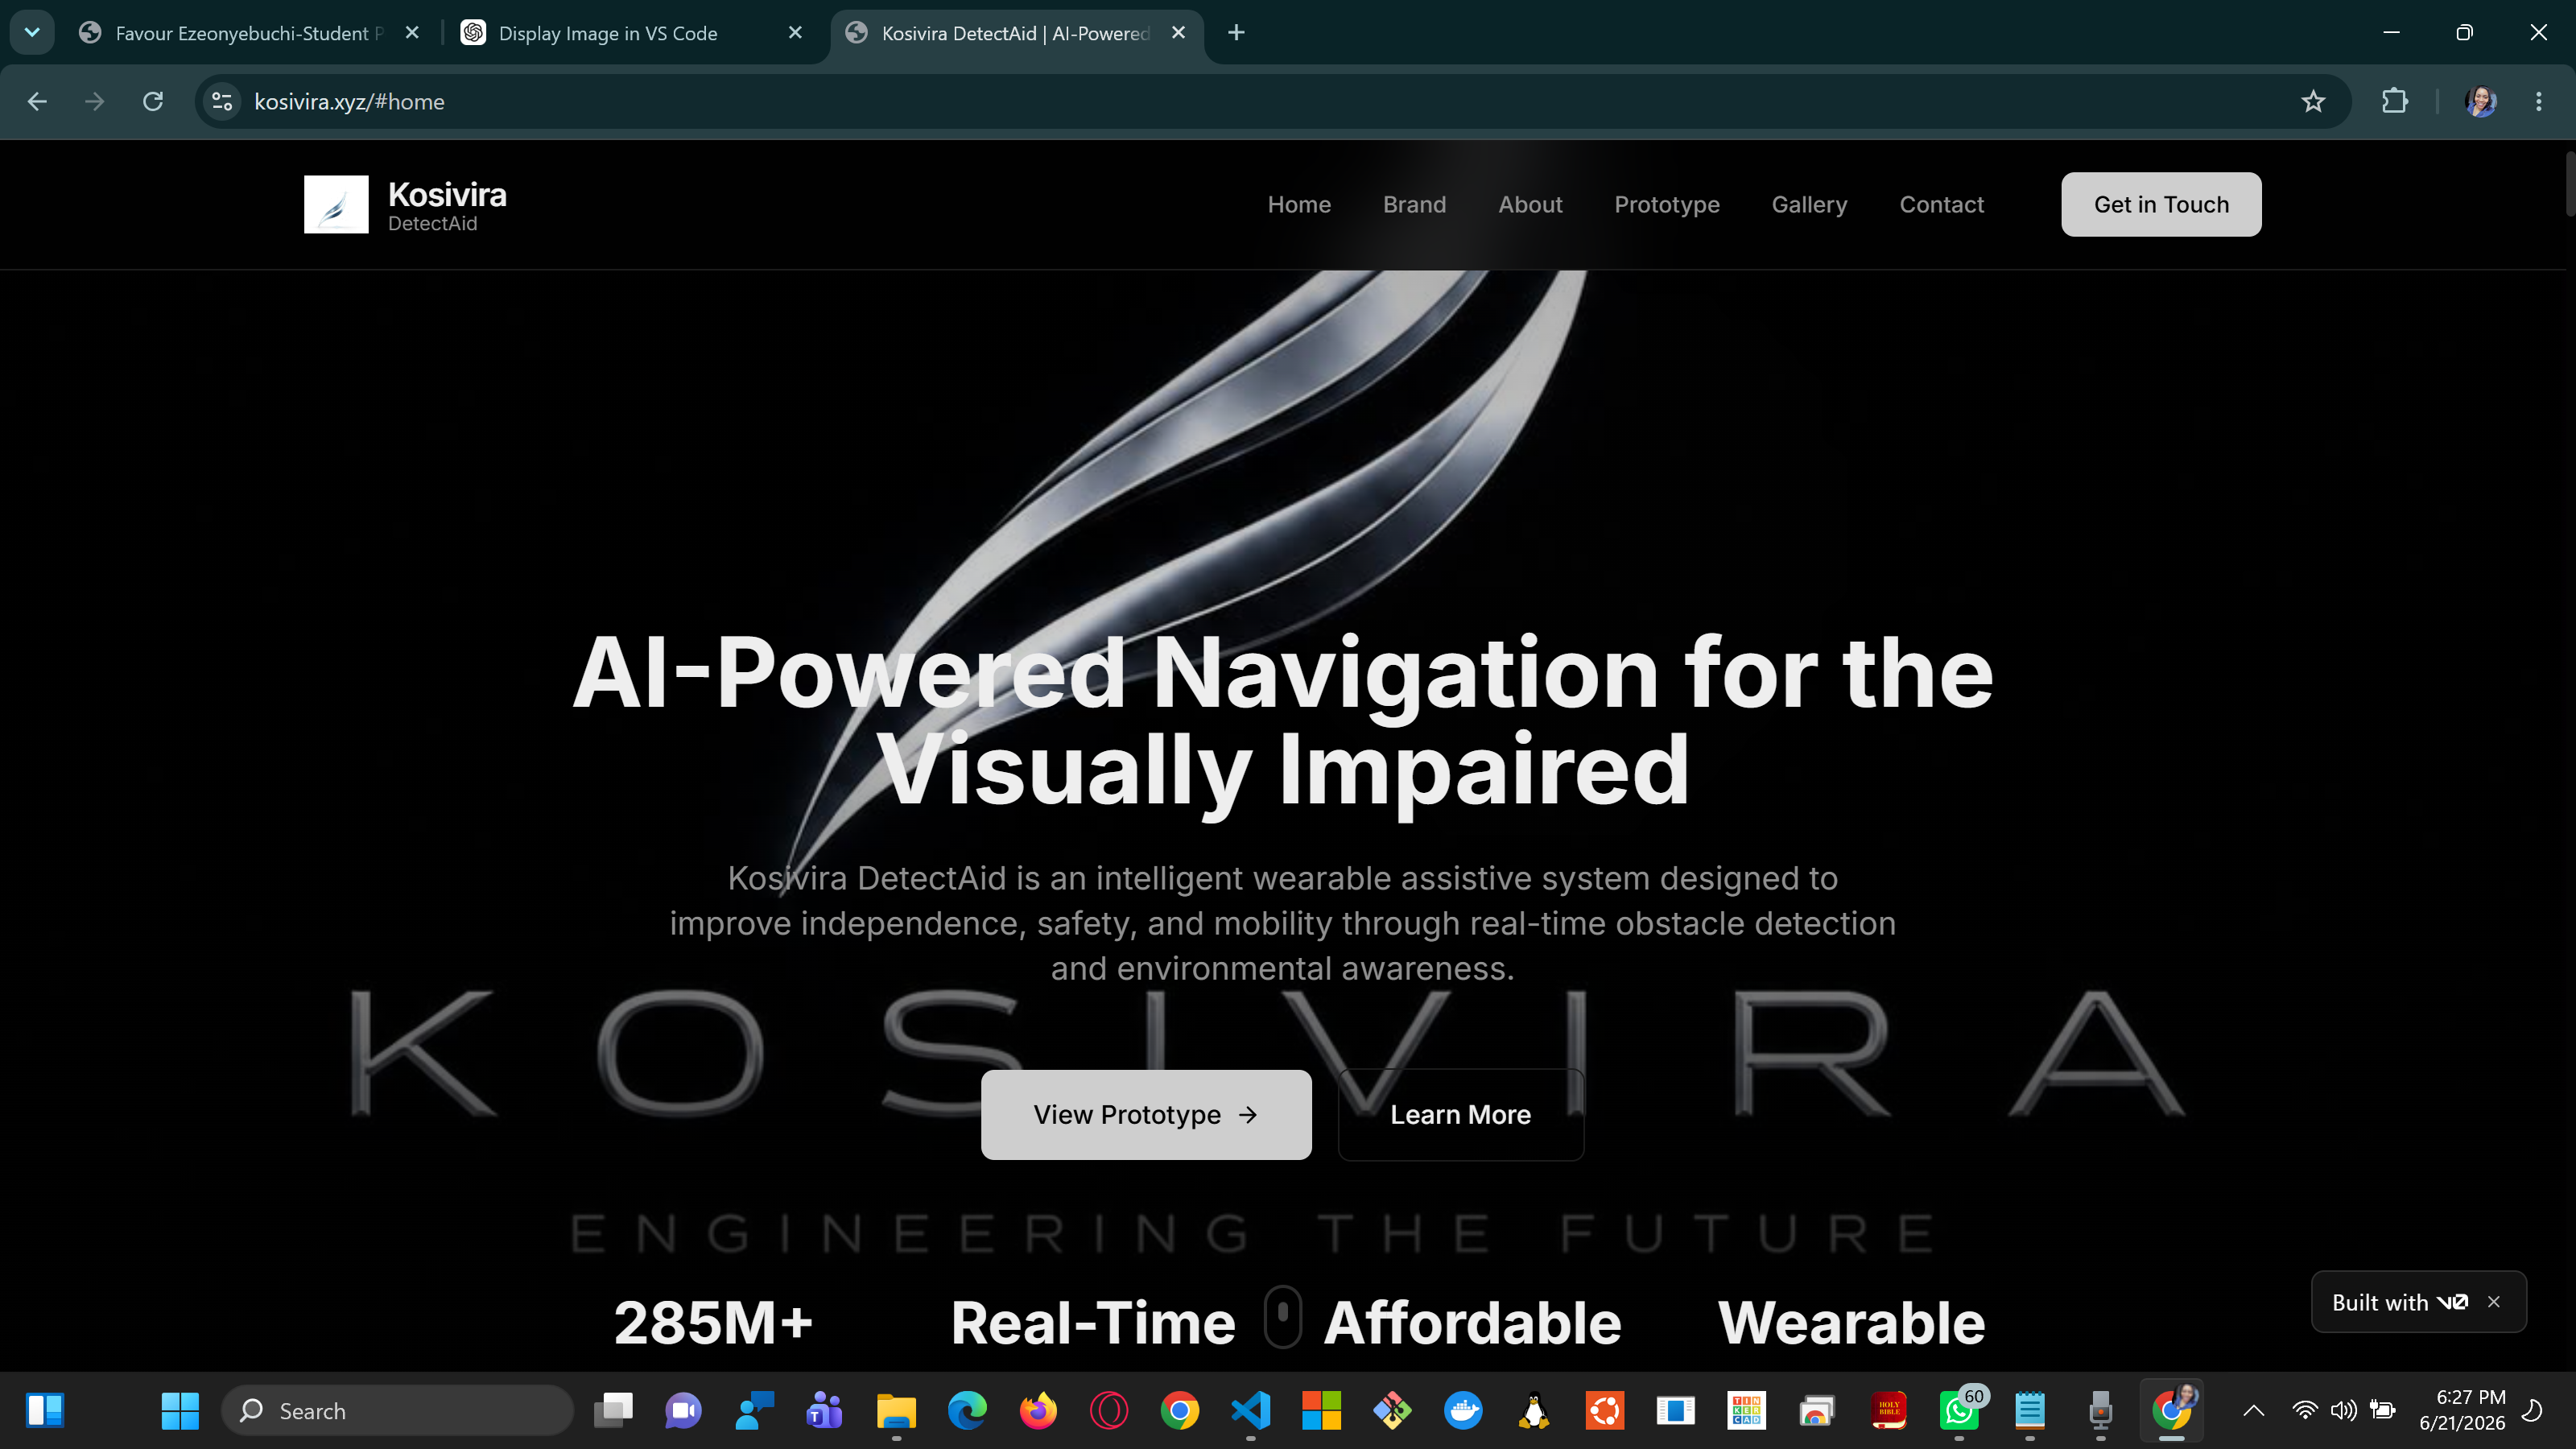
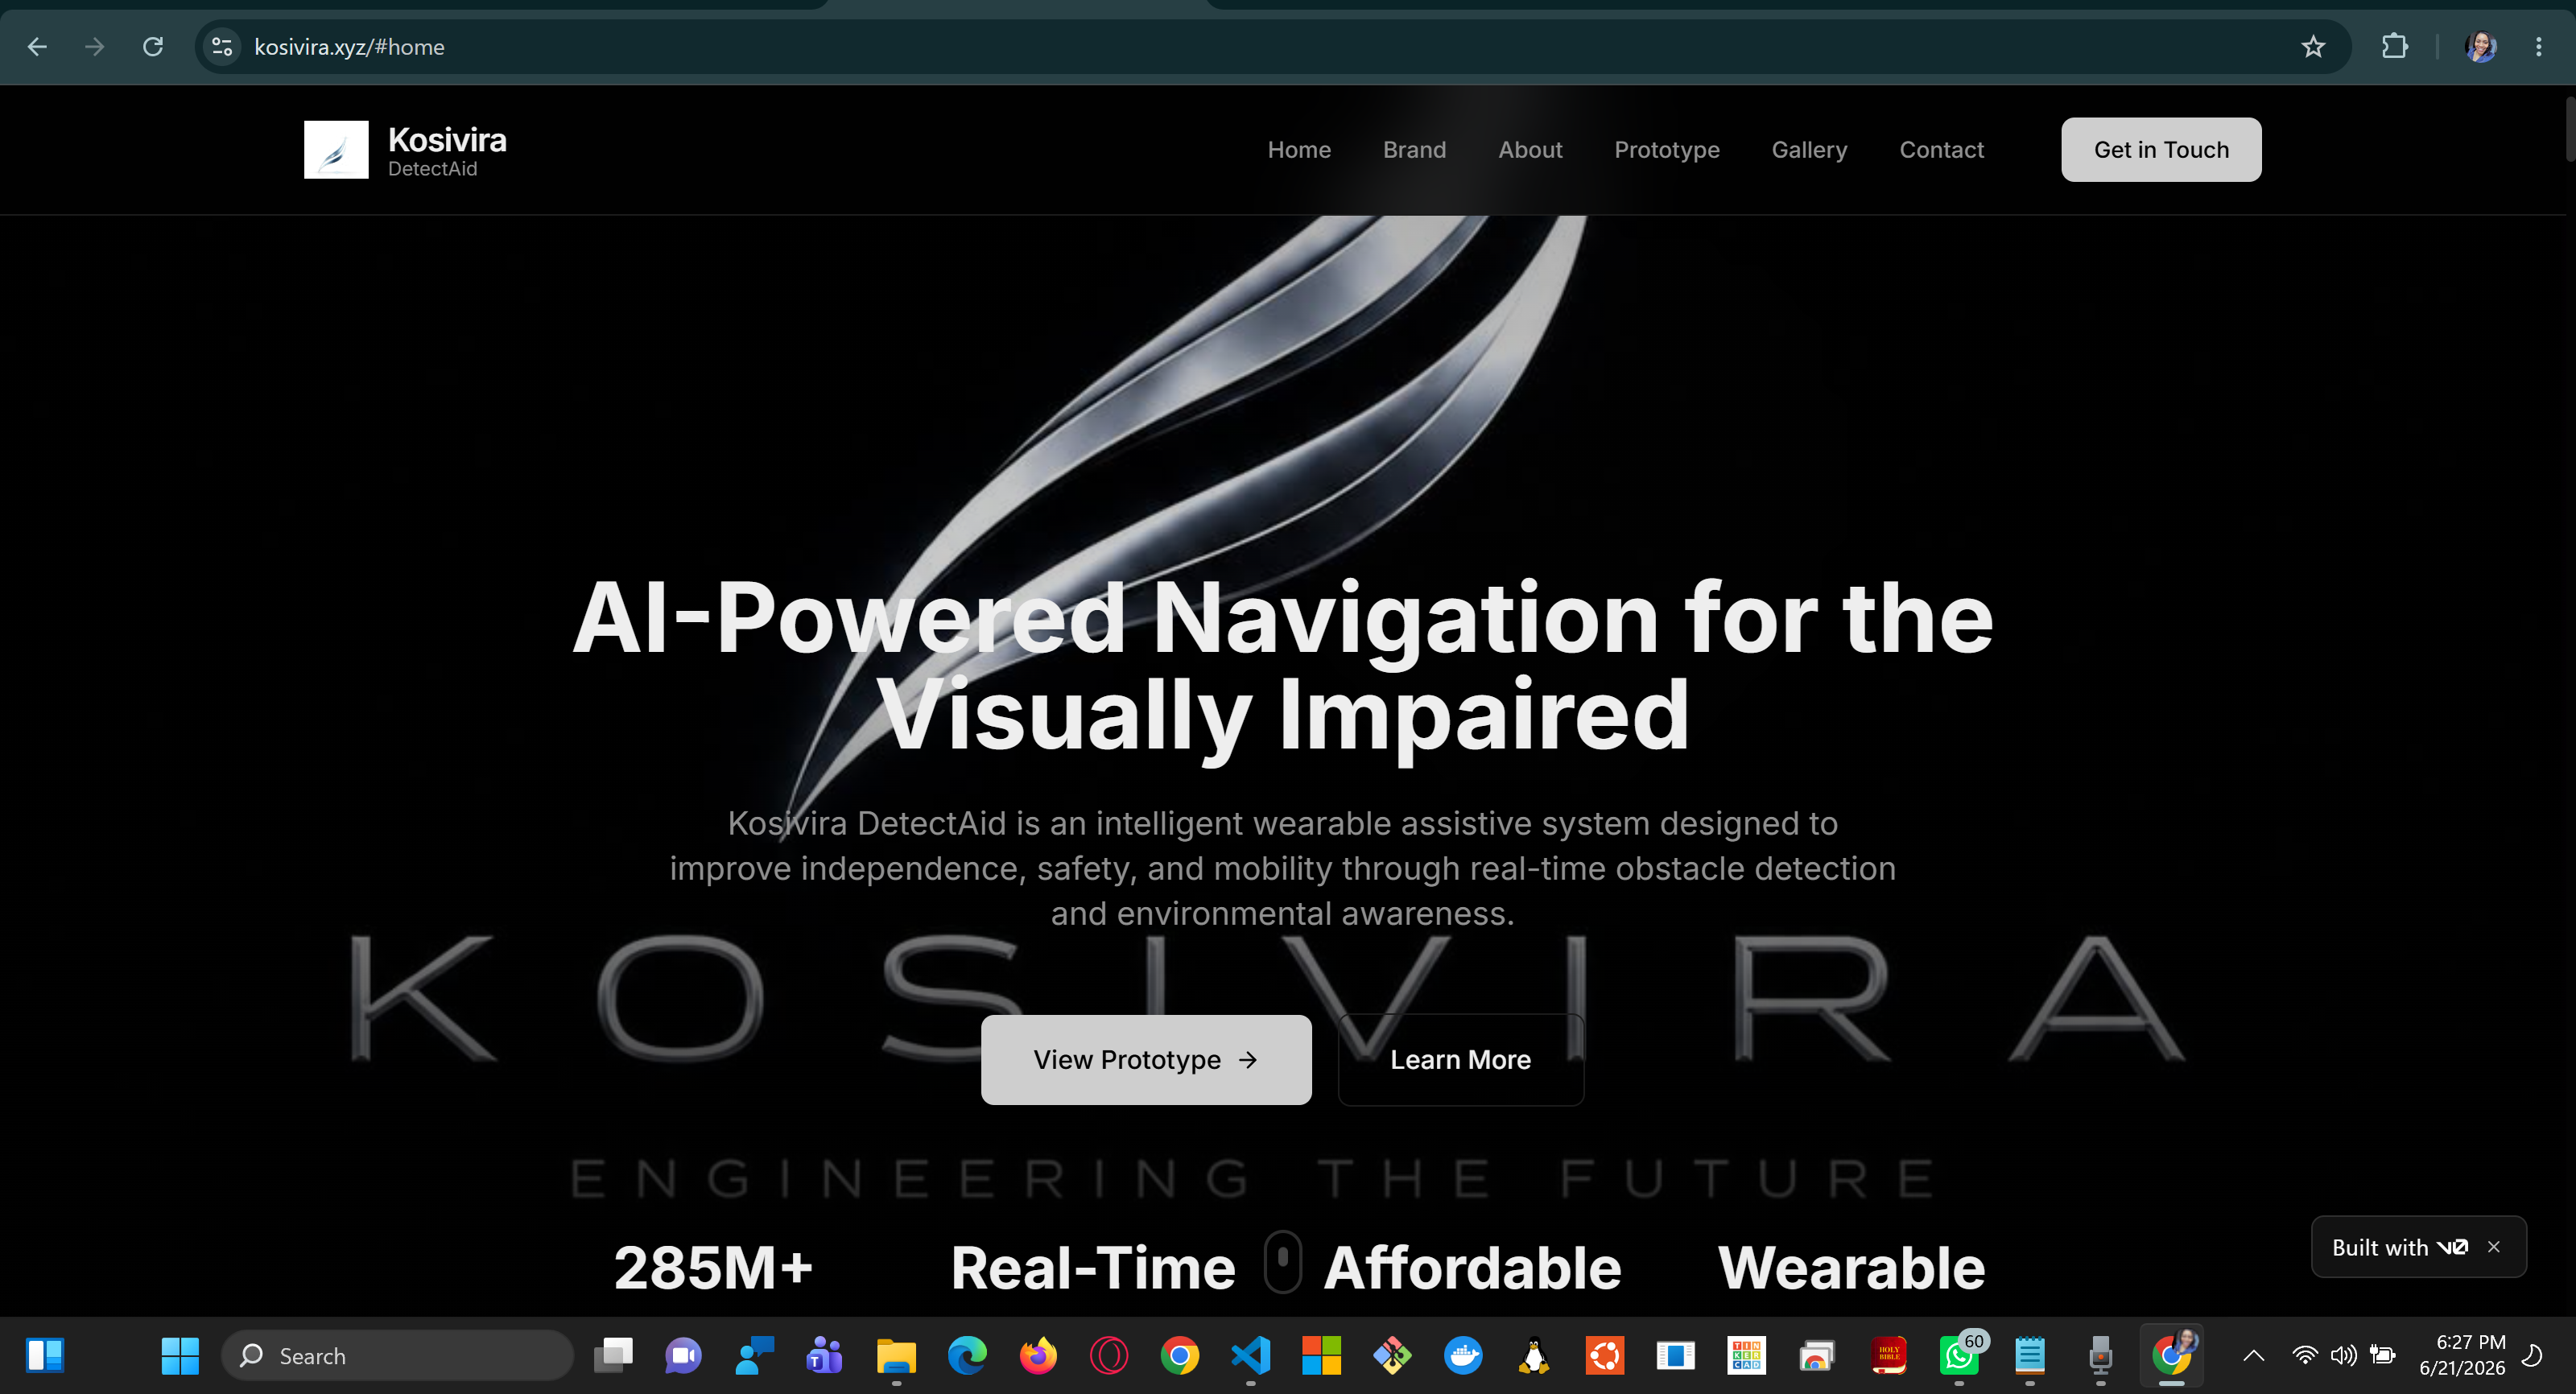
Initial commit

diff --git a/script.js b/script.js
@@ -146,7 +146,7 @@ document.getElementById("pendingTasks").textContent = pending;
 
 renderTasks();
 emailjs.init({
-    publicKey: "AMprSX2soFZIK1Zrd",
+    publicKey: "_-h_QiWGgrxgRijv7",
 });
 
 const contactForm = document.getElementById("contactForm");
@@ -159,8 +159,8 @@ e.preventDefault();
 alert("Button Clicked");
 
 emailjs.sendForm(
-    "service_djde8hg",
-    "template_z1z89qo",
+    "service_ndx7ryb",
+    "template_f883njp",
     this
 )
 .then(function(response){

diff --git a/index.html b/index.html
@@ -41,7 +41,7 @@
             </h1>
 
             <h3>
-                DevOps Enthusiast • Automotive Engineering Student • Founder of KOSIVIRA DetectAid 
+                DevOps Enthusiast • Software Engineering Student • Founder of KOSIVIRA DetectAid 
             </h3>
 
             <p>